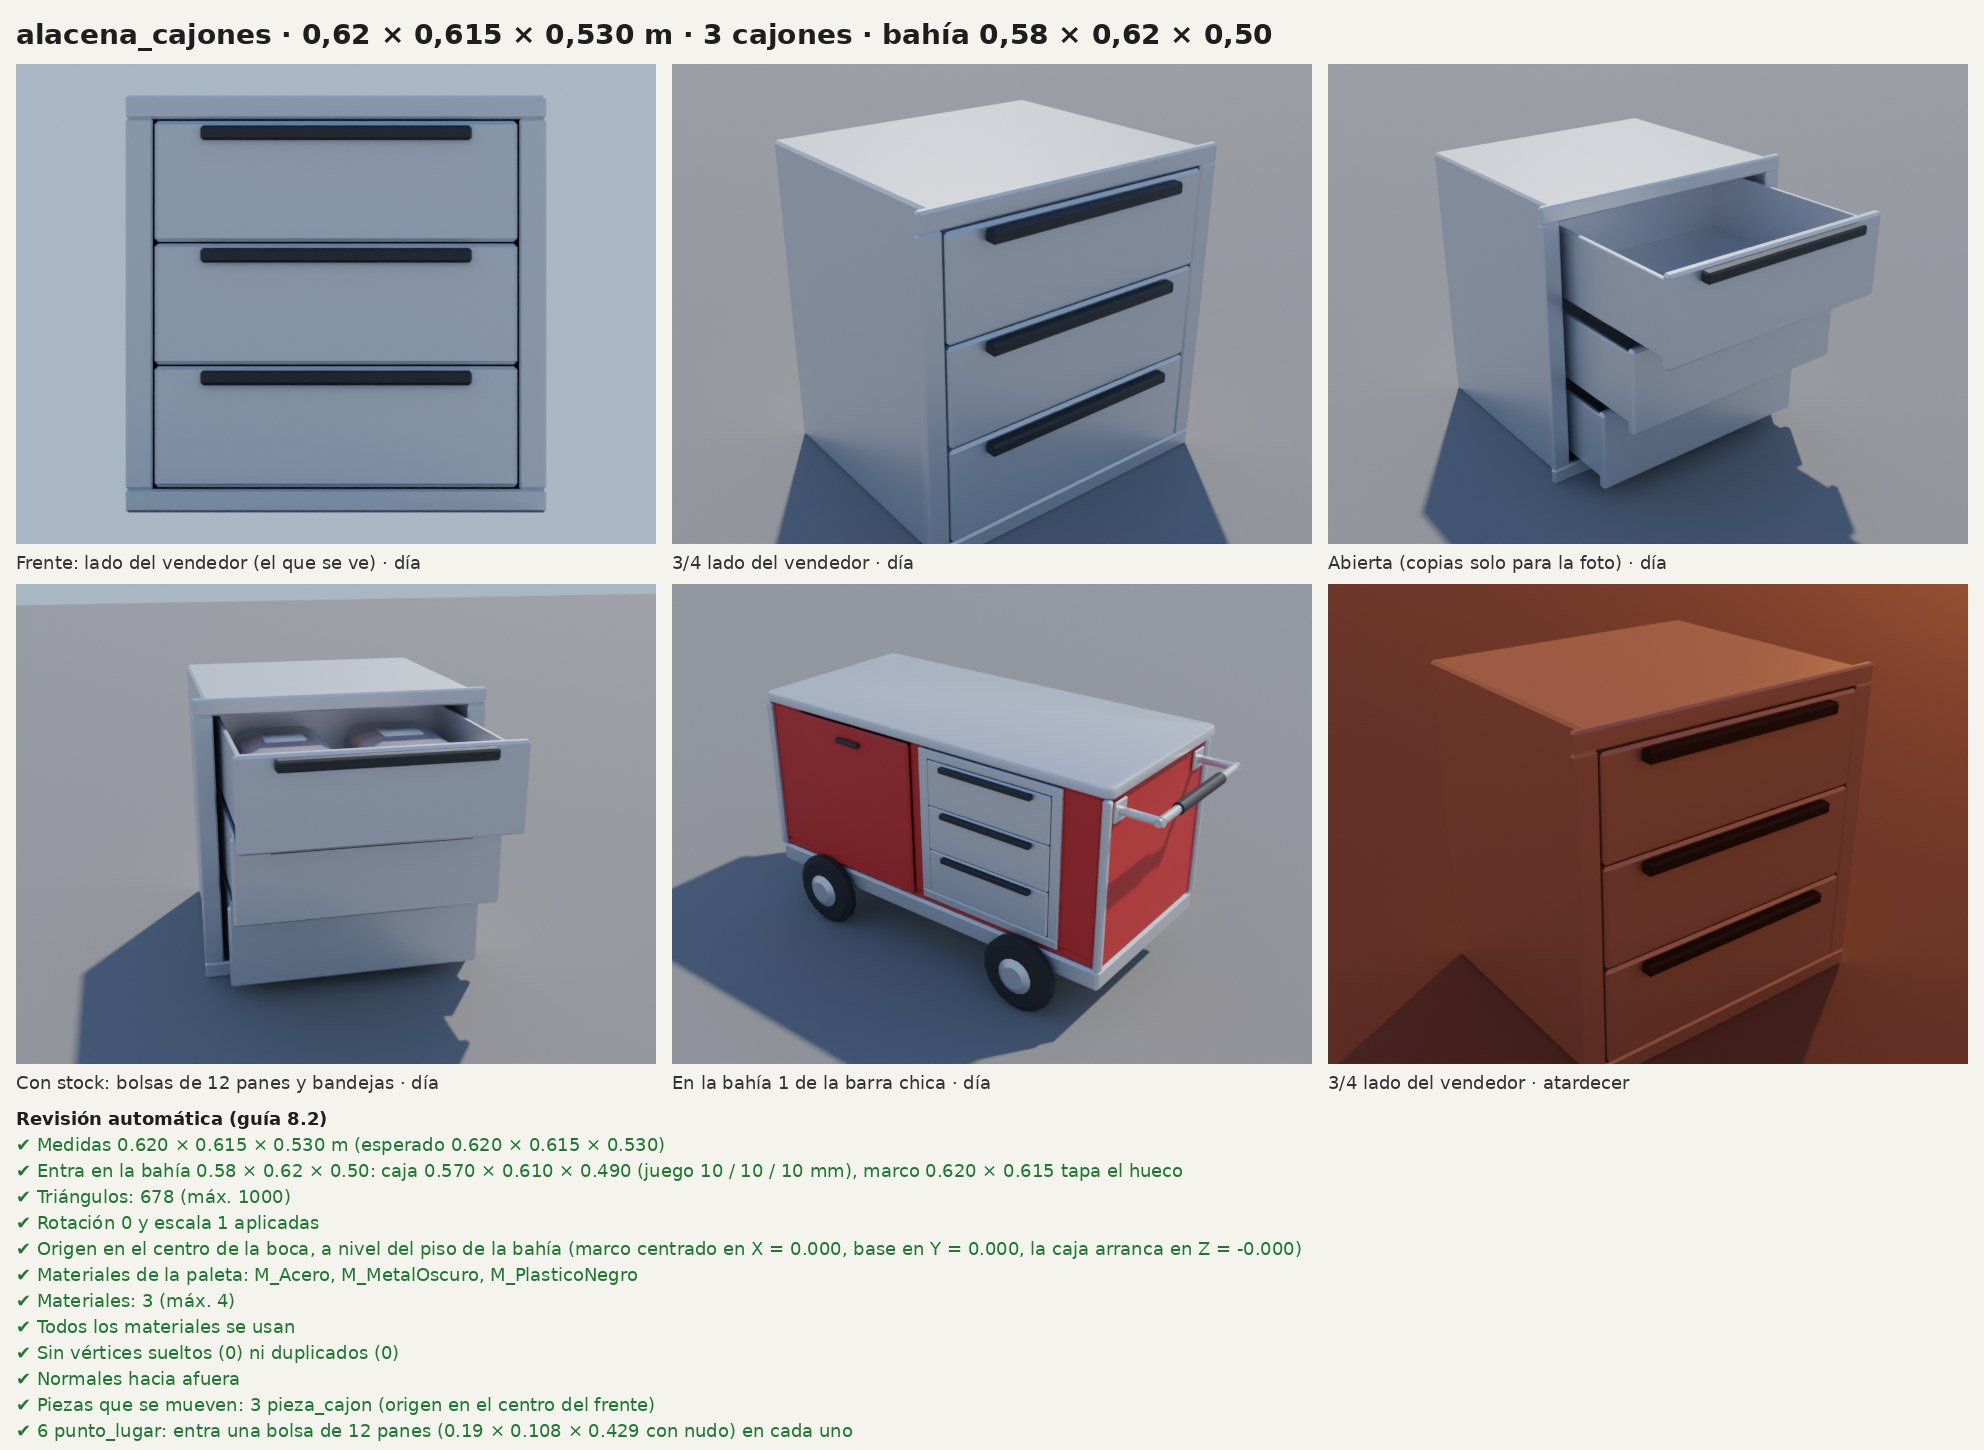
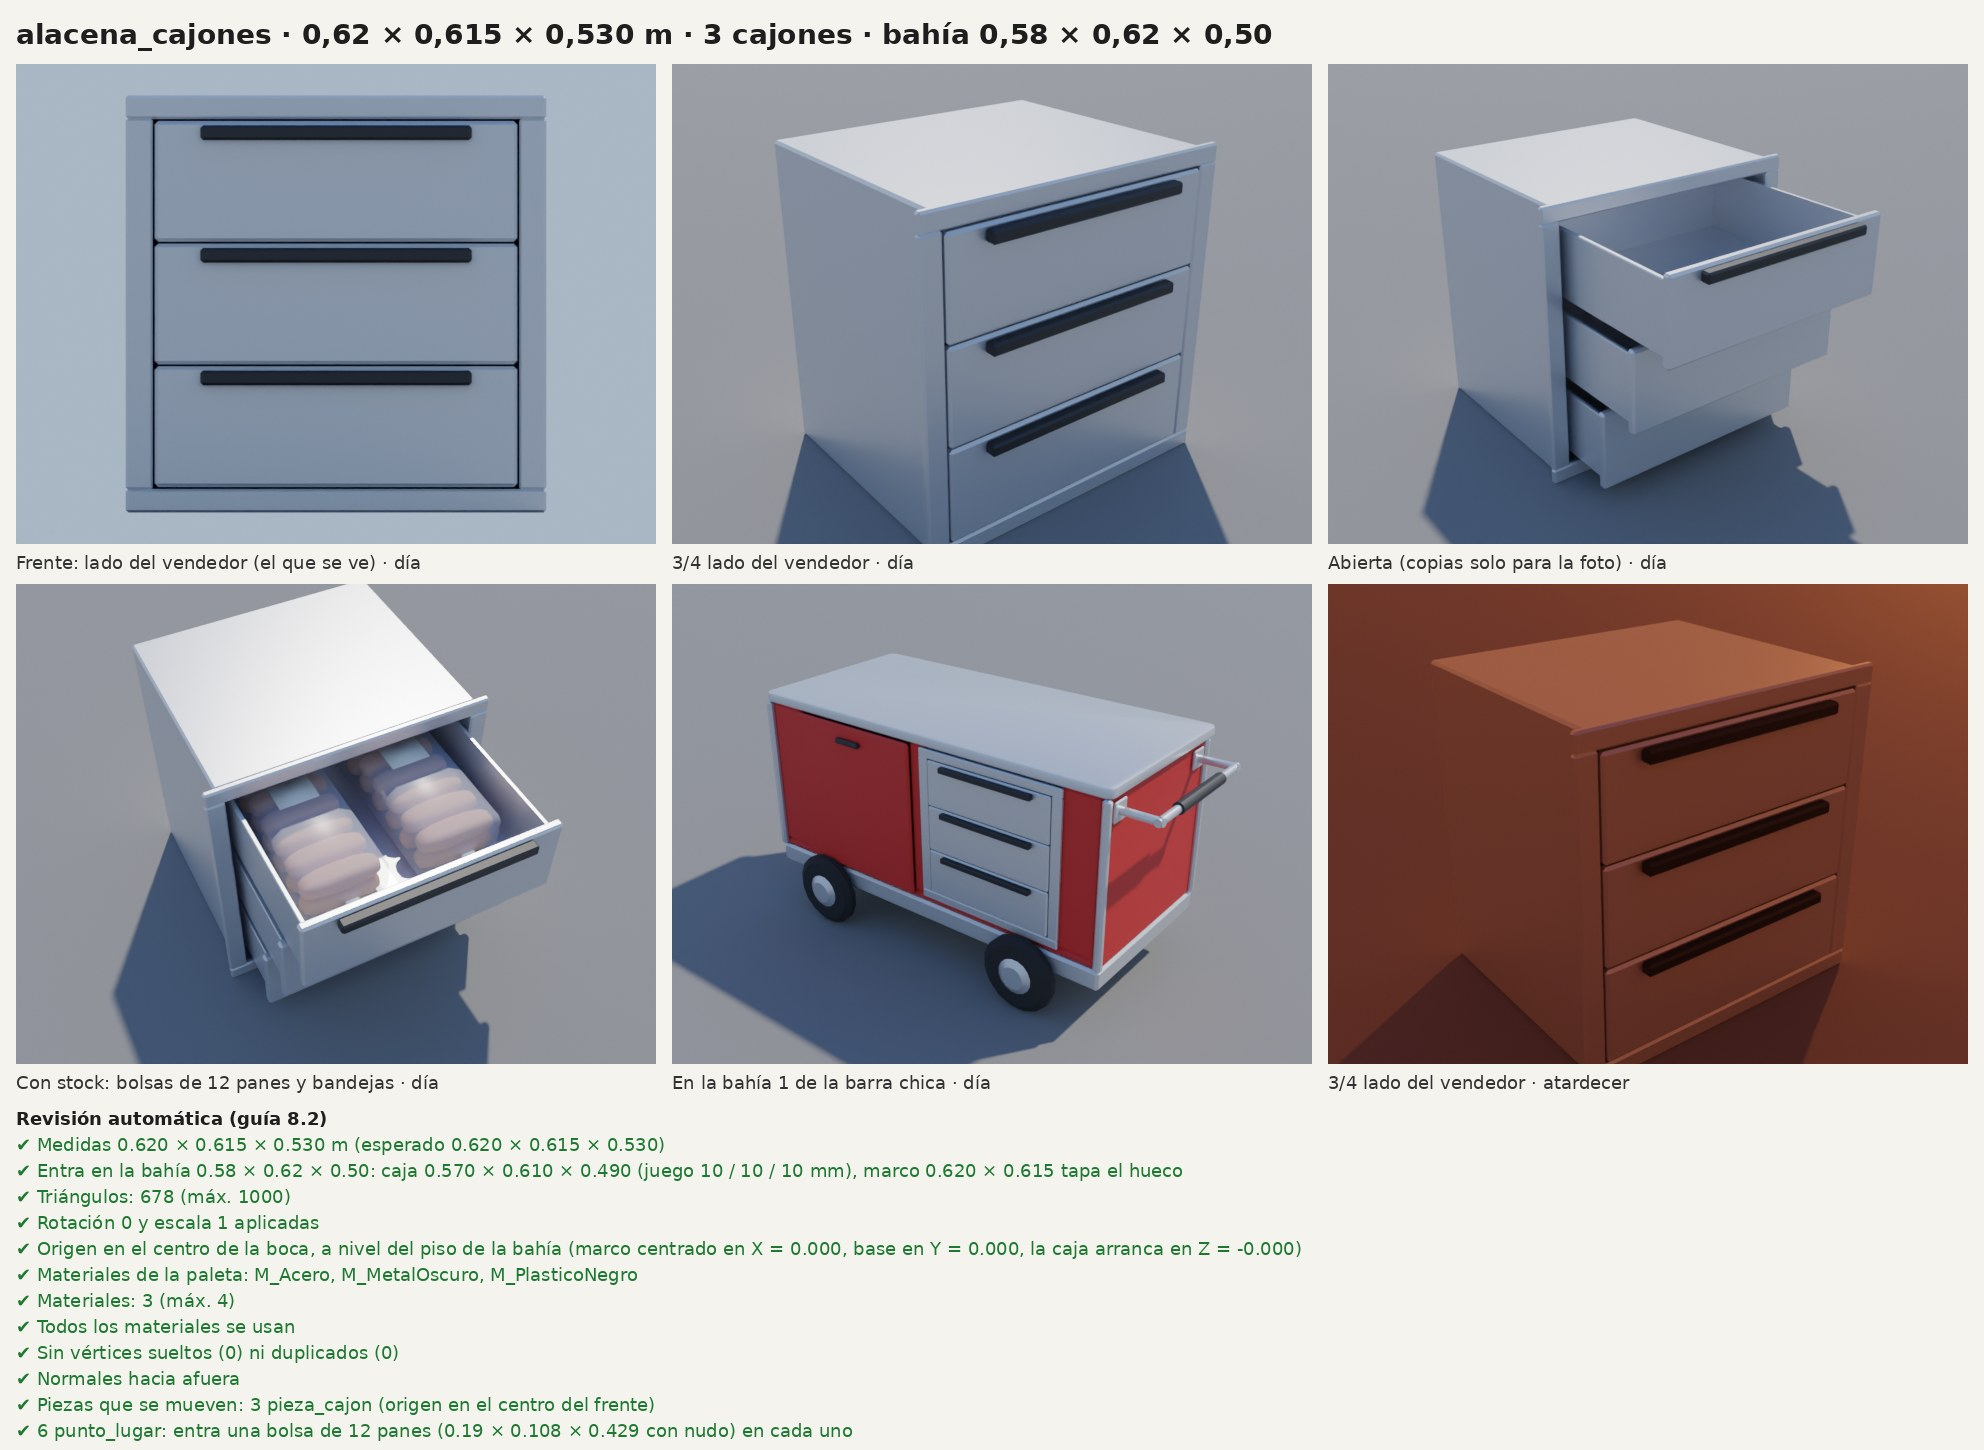
Alacenas bajo mesada, bahías en los carritos y plaza de la etapa 3
- 4 alacenas de acero de medida única (puertas, cajones, abierta, mixta).
- Bases de carrito con bahías bajo la mesada (punto_bahia_<n> y
  pieza_tapa_bahia_<n>).
- Tacho, hamaca, tobogán, subibaja, mesa de ajedrez, bebedero, cartel y pelota.

Claude-Session: https://claude.ai/code/session_01HjM8QSzeKUircBU4mCxhsR

Changed region(s): [[0.0, 0.4034, 0.3438, 0.7448], [0.0312, 0.6517, 0.0938, 0.7448]]

diff --git a/tools/blender/modelos/pelota.py b/tools/blender/modelos/pelota.py
@@ -114,6 +114,7 @@ def main():
         c = [mod["cuerpo"]]
         # La pelota va apoyada en el piso para las fotos (el origen está en el centro).
         mod["cuerpo"].location.z = DIAMETRO / 2
+        bpy.context.view_layer.update()  # si no, la primera foto encuadra la pelota en z = 0
         plaza.hoja(ID, "pelota · Ø 0,22 m · con física", [
             ("Frente · día", c, "frente", "dia", True),
             ("Costado · día", c, "costado", "dia", True),

diff --git a/docs/arte/lista-de-modelos.md b/docs/arte/lista-de-modelos.md
@@ -44,9 +44,9 @@ sobresale 2 cm, zócalo, 4 ruedas, manija para empujar. Las posiciones de los an
 
 | ID | Objeto | Medidas | Tris | Materiales | Notas | Prio. | Estado |
 |---|---|---|---|---|---|---|---|
-| `barra_chica` | Barra chica | 1,6 × 0,95 × 0,7 | 3.000 | PinturaCarrito, Acero, Goma, PlasticoNegro, MetalOscuro | El carrito actual del jugador. Cuerpo pintado `pieza_pintura` (el juego lo tiñe), zócalo y cantoneras de acero, mesada de acero con esquinas redondeadas que sobresale 2 cm a los costados (5 cm hacia el cliente, como hoy en `carrito.rs`), 4 ruedas de goma con taza de acero y manija con puño negro del lado −X. 2 puertitas con tirador del lado del vendedor. *Empties* `punto_<anclaje>` en cada anclaje del `.ron`, más `punto_entrega` y `punto_fila`. Colisión `barra_chica-colonly` + `barra_chica_manija-colonly`. Origen en el centro del cuerpo, a nivel del piso. Hecho por código: `tools/blender/modelos/barra_chica.py` (1824 tris). [Hoja de revisión](revisiones/barra_chica.jpg). | P1 | Hecho |
-| `barra_mediana` | Barra mediana | 2,4 × 0,95 × 0,8 | 3.000 | PinturaCarrito, Acero, Goma, PlasticoNegro, MetalOscuro | Mismo diseño que la chica (módulo `_base_carrito.py`), más larga: 3 puestos de mostrador y 3 puertitas del lado del vendedor. `pieza_pintura`, *Empties* `punto_<anclaje>` + `punto_entrega` y `punto_fila`, colisión `-colonly`. Hecho por código: `tools/blender/modelos/barra_mediana.py` (1912 tris). [Hoja de revisión](revisiones/barra_mediana.jpg). | P1 | Hecho |
-| `carro_grande` | Carro grande | 3,4 × 1,0 × 1,2 | 3.000 | PinturaCarrito, Acero, Goma, PlasticoNegro, MetalOscuro | Más robusto que las barras: zócalo más alto, ruedas más anchas, manija más gruesa, 4 patas niveladoras y parantes de acero. Del lado del vendedor queda abierto bajo la mesada, con estante bajo, estante intermedio y, en la punta +X, el lugar para la garrafa (cincha y rejilla de ventilación). La garrafa no está: sería un modelo aparte. `pieza_pintura`, *Empties* `punto_<anclaje>` + `punto_entrega` y `punto_fila`, colisión `-colonly`. Hecho por código: `tools/blender/modelos/carro_grande.py` (2620 tris). [Hoja de revisión](revisiones/carro_grande.jpg). | P1 | Hecho |
+| `barra_chica` | Barra chica | 1,6 × 0,95 × 0,7 | 3.000 | PinturaCarrito, Acero, Goma, PlasticoNegro, MetalOscuro | El carrito actual del jugador. Cuerpo pintado `pieza_pintura` (el juego lo tiñe), zócalo y cantoneras de acero, mesada de acero con esquinas redondeadas que sobresale 2 cm a los costados (5 cm hacia el cliente, como hoy en `carrito.rs`), 4 ruedas de goma con taza de acero y manija con puño negro del lado −X. 2 puertitas con tirador del lado del vendedor. *Empties* `punto_<anclaje>` en cada anclaje del `.ron`, más `punto_entrega` y `punto_fila`. Colisión `barra_chica-colonly` + `barra_chica_manija-colonly`. Origen en el centro del cuerpo, a nivel del piso. **Bahías para alacenas:** 2 huecos de 0,58 × 0,62 × 0,50 bajo la mesada, del lado del vendedor, con `punto_bahia_1/2`; las puertitas son `pieza_tapa_bahia_<n>` (el juego las esconde cuando hay una alacena). Ahora 2072 tris. Hecho por código: `tools/blender/modelos/barra_chica.py` (1824 tris). [Hoja de revisión](revisiones/barra_chica.jpg). | P1 | Hecho |
+| `barra_mediana` | Barra mediana | 2,4 × 0,95 × 0,8 | 3.000 | PinturaCarrito, Acero, Goma, PlasticoNegro, MetalOscuro | Mismo diseño que la chica (módulo `_base_carrito.py`), más larga: 3 puestos de mostrador y 3 puertitas del lado del vendedor. `pieza_pintura`, *Empties* `punto_<anclaje>` + `punto_entrega` y `punto_fila`, colisión `-colonly`. **Bahías:** 3 (`punto_bahia_1..3`, `pieza_tapa_bahia_<n>`). Ahora 2202 tris. Hecho por código: `tools/blender/modelos/barra_mediana.py` (1912 tris). [Hoja de revisión](revisiones/barra_mediana.jpg). | P1 | Hecho |
+| `carro_grande` | Carro grande | 3,4 × 1,0 × 1,2 | 3.000 | PinturaCarrito, Acero, Goma, PlasticoNegro, MetalOscuro | Más robusto que las barras: zócalo más alto, ruedas más anchas, manija más gruesa, 4 patas niveladoras y parantes de acero. Del lado del vendedor queda abierto bajo la mesada, con estante bajo, estante intermedio y, en la punta +X, el lugar para la garrafa (cincha y rejilla de ventilación). La garrafa no está: sería un modelo aparte. `pieza_pintura`, *Empties* `punto_<anclaje>` + `punto_entrega` y `punto_fila`, colisión `-colonly`. **Bahías:** 4 (`punto_bahia_1..4`); la tapa de cada una es su estante de acero, así el carro sigue abierto del lado del vendedor. El lugar de la garrafa sigue en la punta +X. Ahora 2916 tris. Hecho por código: `tools/blender/modelos/carro_grande.py` (2620 tris). [Hoja de revisión](revisiones/carro_grande.jpg). | P1 | Hecho |
 
 ### Accesorios (`accesorios/`, `cocina/`)
 
@@ -132,15 +132,15 @@ cuerpo + cabeza + pelo + ropa + accesorio, y de cambiar colores.
 
 | ID | Objeto | Medidas | Tris | Materiales | Notas | Prio. | Estado |
 |---|---|---|---|---|---|---|---|
-| `tacho_basura` | Tacho de basura | Ø 0,45 × 0,9 | 500 | Hierro, MetalOscuro | Típico de plaza, sobre poste. | P2 | Pendiente |
-| `hamaca` | Hamacas | ≈ 3,0 × 2,4 × 1,5 | 1.500 | Hierro, Madera, RojoAcento | Para la actividad "jugar". | P2 | Pendiente |
-| `tobogan` | Tobogán | ≈ 0,8 × 2,0 × 3,5 | 1.500 | Hierro, AzulAcento, Amarillo | Ídem. | P2 | Pendiente |
-| `subibaja` | Subibaja | ≈ 0,4 × 0,8 × 3,0 | 600 | Hierro, Amarillo | Ídem. | P3 | Pendiente |
-| `mesa_ajedrez` | Mesa de ajedrez con bancos | ≈ 1,6 × 0,75 × 1,6 | 1.200 | Piedra | Para la actividad "charlar / jugar". | P3 | Pendiente |
-| `bebedero` | Bebedero | ≈ 0,4 × 1,0 × 0,4 | 400 | Piedra, Acero | ⚠ | P3 | Pendiente |
-| `pelota` | Pelota de fútbol | Ø 0,22 | 300 | BlancoCrema, PlasticoNegro | Con física. | P3 | Pendiente |
+| `tacho_basura` | Tacho de basura | Ø 0,45 × 0,9 (0,54 con el poste) | 500 | MetalOscuro, Hierro | Cesto de chapa colgado de un poste de hierro atrás, con borde y faja. Canasto abierto, fondo a 0,40 y borde a 0,86 (se tira algo sin agacharse). Colisión: cilindro del canasto y caja del poste. Hecho por código: `tools/blender/modelos/tacho_basura.py` (452 tris). [Hoja de revisión](revisiones/tacho_basura.jpg). | P2 | Hecho |
+| `hamaca` | Hamacas | ≈ 3,0 × 2,4 × 1,5 | 1.500 | Hierro, Madera, RojoAcento | Hamaca doble de caño rojo con patas en A, cadenas de hierro (cilindros finos, sin eslabones) y asientos de madera a 0,45 m. Cada asiento con sus cadenas es una `pieza_asiento_N` con el origen en el eje de giro (para balancearla). Colisión `-colonly`: patas y travesaño (los asientos no chocan). Hecho por código: `tools/blender/modelos/hamaca.py` (804 tris). [Hoja de revisión](revisiones/hamaca.jpg). | P2 | Hecho |
+| `tobogan` | Tobogán | ≈ 0,8 × 2,0 × 3,5 | 1.500 | Hierro, AzulAcento, Amarillo | Escalera de caño azul atrás, plataforma a 1,5 m con pasamanos y rampa amarilla en U a 34° que sale hacia el frente (+Z) a 0,30 m del piso. Colisión `-colonly`: escalera + plataforma, rampa y tramo final. Hecho por código: `tools/blender/modelos/tobogan.py` (592 tris). [Hoja de revisión](revisiones/tobogan.jpg). | P2 | Hecho |
+| `subibaja` | Subibaja | ≈ 0,4 × 0,8 × 3,0 | 600 | Hierro, Amarillo | Caballete de hierro y tabla amarilla de 3 m con manijas. La tabla es `pieza_tabla`, con el origen en el eje (0,50 m) para inclinarla; su colisión es hija de la pieza, así la sigue. Hecho por código: `tools/blender/modelos/subibaja.py` (396 tris). [Hoja de revisión](revisiones/subibaja.jpg). | P3 | Hecho |
+| `mesa_ajedrez` | Mesa de ajedrez con bancos | 1,6 × 0,758 × 1,6 | 1.200 | Piedra, Vereda | Mesa de piedra con pie y zócalo y cuatro banquitos torneados de 0,45 m. Tablero de 8 × 8 en dos piedras (Piedra / Vereda), en geometría, sin textura. Colisión `-colonly`: mesa + 4 banquitos. Hecho por código: `tools/blender/modelos/mesa_ajedrez.py` (898 tris). [Hoja de revisión](revisiones/mesa_ajedrez.jpg). | P3 | Hecho |
+| `bebedero` | Bebedero | ≈ 0,4 × 1,0 × 0,4 | 400 | Piedra, Acero | Zócalo, columna de piedra que se afina y pileta con el borde a 0,88; pico de acero que se curva hacia el frente (hasta 1,0 m), rejilla y botón. Colisión `-colonly`: una caja. Hecho por código: `tools/blender/modelos/bebedero.py` (288 tris). [Hoja de revisión](revisiones/bebedero.jpg). | P3 | Hecho |
+| `pelota` | Pelota de fútbol | Ø 0,22 | 300 | BlancoCrema, PlasticoNegro | Pelota de gajos: 12 pentágonos negros y 20 hexágonos crema llevados a la esfera, sombreado suave. Con física: origen en el centro, sin `-colonly` (la colisión la pone el juego, esfera de r 0,11). Hecho por código: `tools/blender/modelos/pelota.py` (180 tris). [Hoja de revisión](revisiones/pelota.jpg). | P3 | Hecho |
 | `bicicleta` | Bicicleta | ≈ 0,6 × 1,0 × 1,7 | 1.500 | Hierro, colores | ⚠ Estacionada o en uso. | P3 | Pendiente |
-| `cartel_plaza` | Cartel con el nombre de la plaza | ≈ 1,2 × 2,0 × 0,1 | 300 | Hierro, BlancoCrema | Nombre inventado. | P3 | Pendiente |
+| `cartel_plaza` | Cartel con el nombre de la plaza | ≈ 1,2 × 2,0 × 0,1 | 300 | Hierro + cartel `T_cartel_plaza` | Dos postes de hierro y una chapa de 1,38 a 1,88 m con "Plaza del Aljibe · Barrio Las Golondrinas" (nombre inventado) en imagen, en las dos caras (desde atrás también se lee al derecho). Colisión `-colonly`: una caja. Hecho por código: `tools/blender/modelos/cartel_plaza.py` (260 tris). [Hoja de revisión](revisiones/cartel_plaza.jpg). | P3 | Hecho |
 
 ---
 
@@ -211,10 +211,10 @@ cuerpo + cabeza + pelo + ropa + accesorio, y de cambiar colores.
 
 | ID | Objeto | Medidas | Tris | Materiales | Notas | Prio. | Estado |
 |---|---|---|---|---|---|---|---|
-| `alacena_puertas` | Alacena de 2 puertas | ≈ medida de bahía | 1.000 | Acero, PlasticoNegro, MetalOscuro | 2 puertas batientes con tirador y un estante adentro. | P2 | Pendiente |
-| `alacena_cajones` | Cajonera de 3 cajones | ídem | 1.000 | ídem | 3 cajones con tirador corrido. | P2 | Pendiente |
-| `alacena_abierta` | Alacena abierta | ídem | 1.000 | ídem | Sin puertas, 2 estantes a la vista. | P3 | Pendiente |
-| `alacena_mixta` | Alacena puerta + cajones | ídem | 1.000 | ídem | 1 puerta y una columna de 2–3 cajones. | P3 | Pendiente |
+| `alacena_puertas` | Alacena de 2 puertas | 0,62 × 0,615 × 0,538 | 1.000 | Acero, MetalOscuro, PlasticoNegro | Mueble de acero bajo mesada con marco y 2 puertas batientes con tirador negro; adentro, un estante con pestaña y el fondo en MetalOscuro. Mide lo mismo que todas las alacenas (caja de 0,57 × 0,61 × 0,49) y entra en cualquier bahía. Origen en el centro de la boca, a nivel del piso de la bahía (= `punto_bahia_<n>`). `pieza_puerta_1/2` con el origen en la bisagra; 4 `punto_lugar` donde entra una bolsa de 12 panes. Colisión `-colonly`: paredes y estante. Hecho por código: `tools/blender/modelos/alacena_puertas.py` (546 tris). [Hoja de revisión](revisiones/alacena_puertas.jpg). | P2 | Hecho |
+| `alacena_cajones` | Cajonera de 3 cajones | 0,62 × 0,615 × 0,530 | 1.000 | Acero, MetalOscuro, PlasticoNegro | Cajonera de acero con 3 cajones con tirador corrido, numerados de arriba hacia abajo. `pieza_cajon_1..3` con el origen en el centro del frente (se abren deslizando hacia el vendedor, ~0,32 m); 6 `punto_lugar`, 2 por cajón, hijos del cajón. Misma medida y origen que las demás. Hecho por código: `tools/blender/modelos/alacena_cajones.py` (678 tris). [Hoja de revisión](revisiones/alacena_cajones.jpg). | P2 | Hecho |
+| `alacena_abierta` | Alacena abierta | 0,62 × 0,615 × 0,505 | 1.000 | Acero, MetalOscuro | Sin puertas: marco y 2 estantes de chapa con pestaña a la vista. 6 `punto_lugar` (2 por nivel). Colisión `-colonly`: paredes y estantes. Misma medida y origen que las demás. Hecho por código: `tools/blender/modelos/alacena_abierta.py` (410 tris). [Hoja de revisión](revisiones/alacena_abierta.jpg). | P3 | Hecho |
+| `alacena_mixta` | Alacena puerta + cajones | 0,62 × 0,615 × 0,538 | 1.000 | Acero, MetalOscuro, PlasticoNegro | Una puerta (bisagra en −X) y una columna de 3 cajones del lado +X, separadas por un tabique; detrás de la puerta, un estante. `pieza_puerta_1`, `pieza_cajon_1..3`; 5 `punto_lugar`. Misma medida y origen que las demás. Hecho por código: `tools/blender/modelos/alacena_mixta.py` (934 tris). [Hoja de revisión](revisiones/alacena_mixta.jpg). | P3 | Hecho |
 
 ### Techos y toldos para los carritos (`accesorios/`)
 
